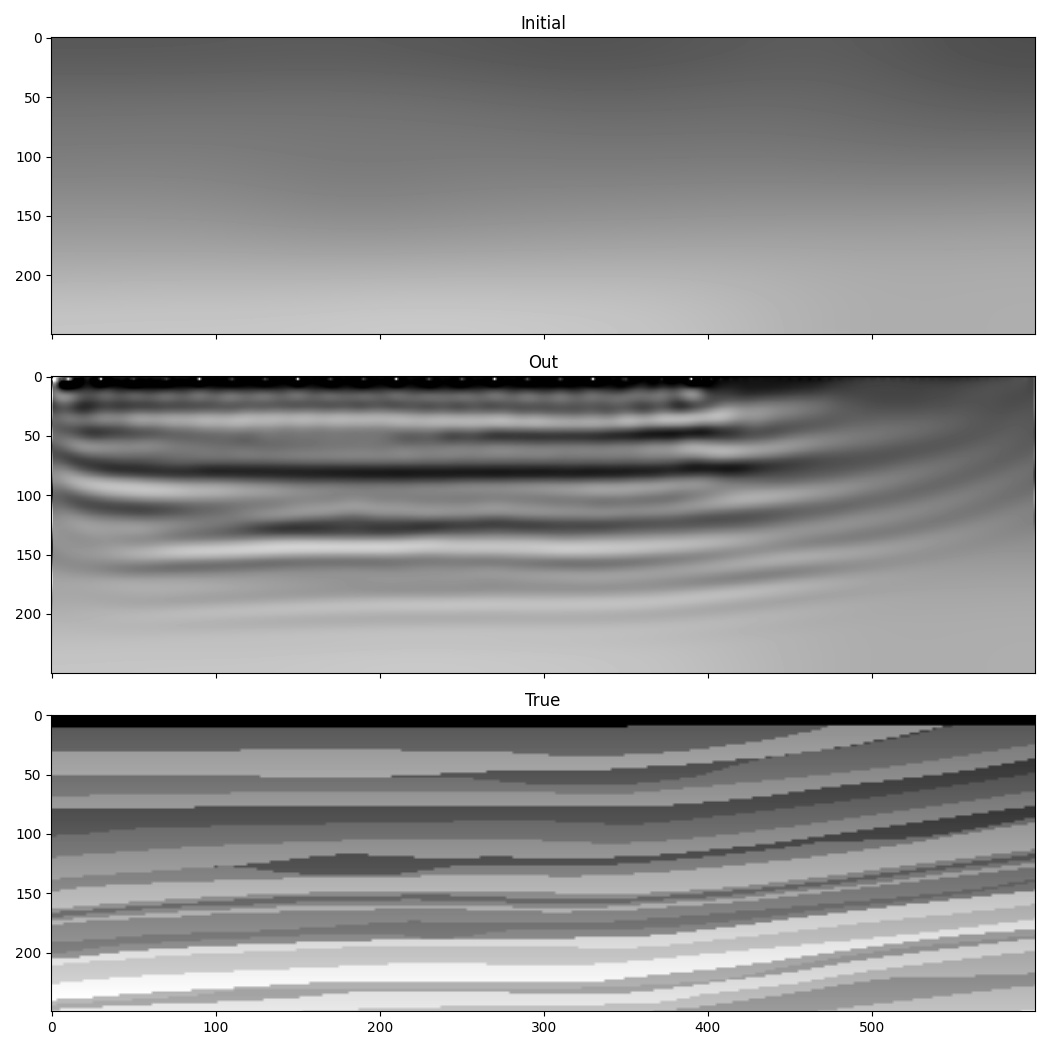
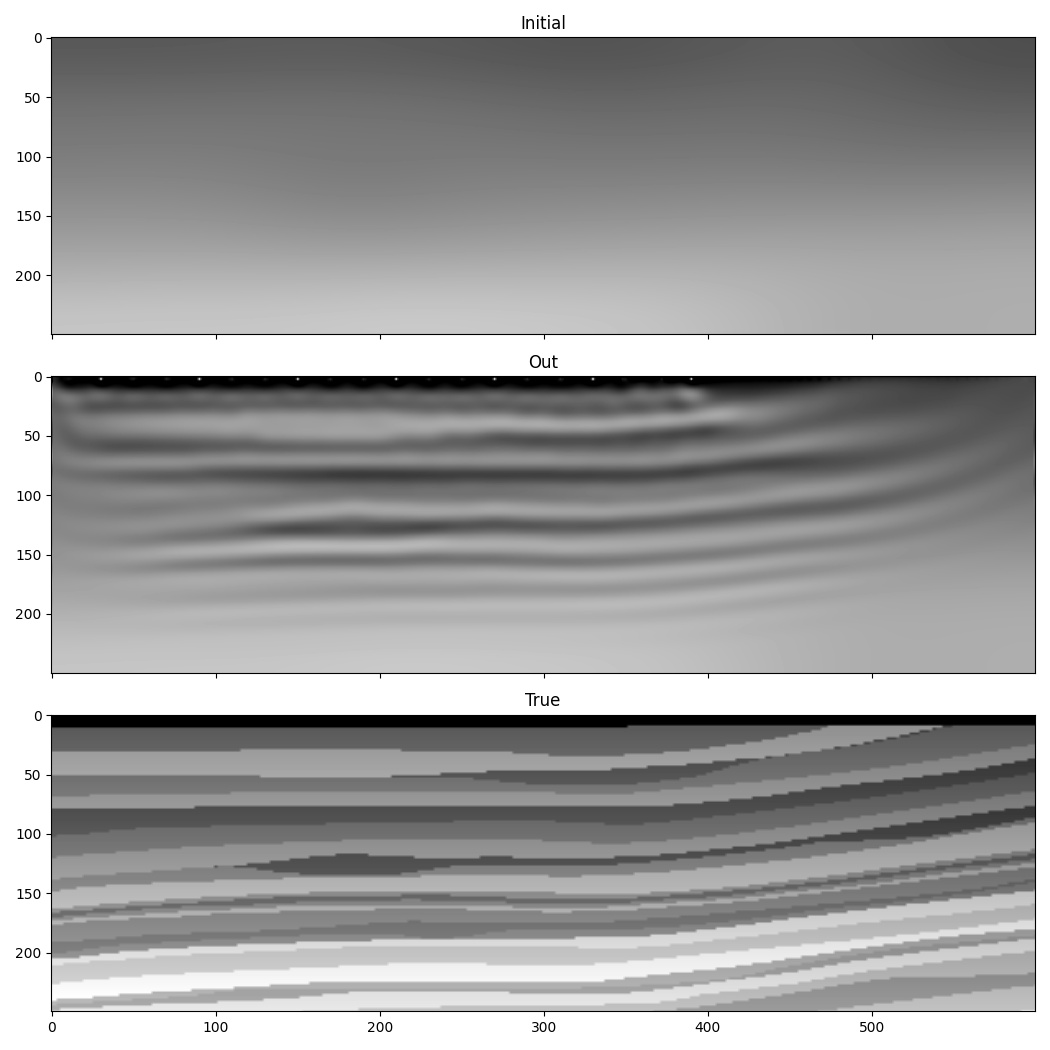
Bug version and remake examples
Re-run examples after changes to PML, slightly improving
the results.

Changed region(s): [[0.0305, 0.3657, 0.7314, 0.5486], [0.6705, 0.4876, 0.7314, 0.5181]]

diff --git a/docs/conf.py b/docs/conf.py
@@ -22,7 +22,7 @@ copyright = '2022, Alan Richardson'
 author = 'Alan Richardson'
 
 # The full version, including alpha/beta/rc tags
-release = 'v0.0.14'
+release = 'v0.0.15'
 
 
 # -- General configuration ---------------------------------------------------

diff --git a/README.md b/README.md
@@ -2,7 +2,7 @@
 
 [![DOI](https://zenodo.org/badge/DOI/10.5281/zenodo.3829886.svg)](https://doi.org/10.5281/zenodo.3829886)
 
-Deepwave provides wave propagation modules for PyTorch, for applications such as seismic imaging/inversion. You can use it to perform forward modelling and backpropagation, so it can simulate wave propagation to generate synthetic data, invert for the scattering potential (RTM/LSRTM) or wavespeed (FWI), or you can use it to integrate wave propagation into a larger chain of operations.
+Deepwave provides wave propagation modules for PyTorch, for applications such as seismic imaging/inversion. You can use it to perform forward modelling and backpropagation, so it can simulate wave propagation to generate synthetic data, invert for the scattering potential (RTM/LSRTM) or wavespeed (FWI), or you can use it to integrate wave propagation into a larger chain of operations with end-to-end forward and backpropagation.
 
 ## Features
 - Supports regular and Born modelling of the 2D constant density acoustic / scalar wave equation
